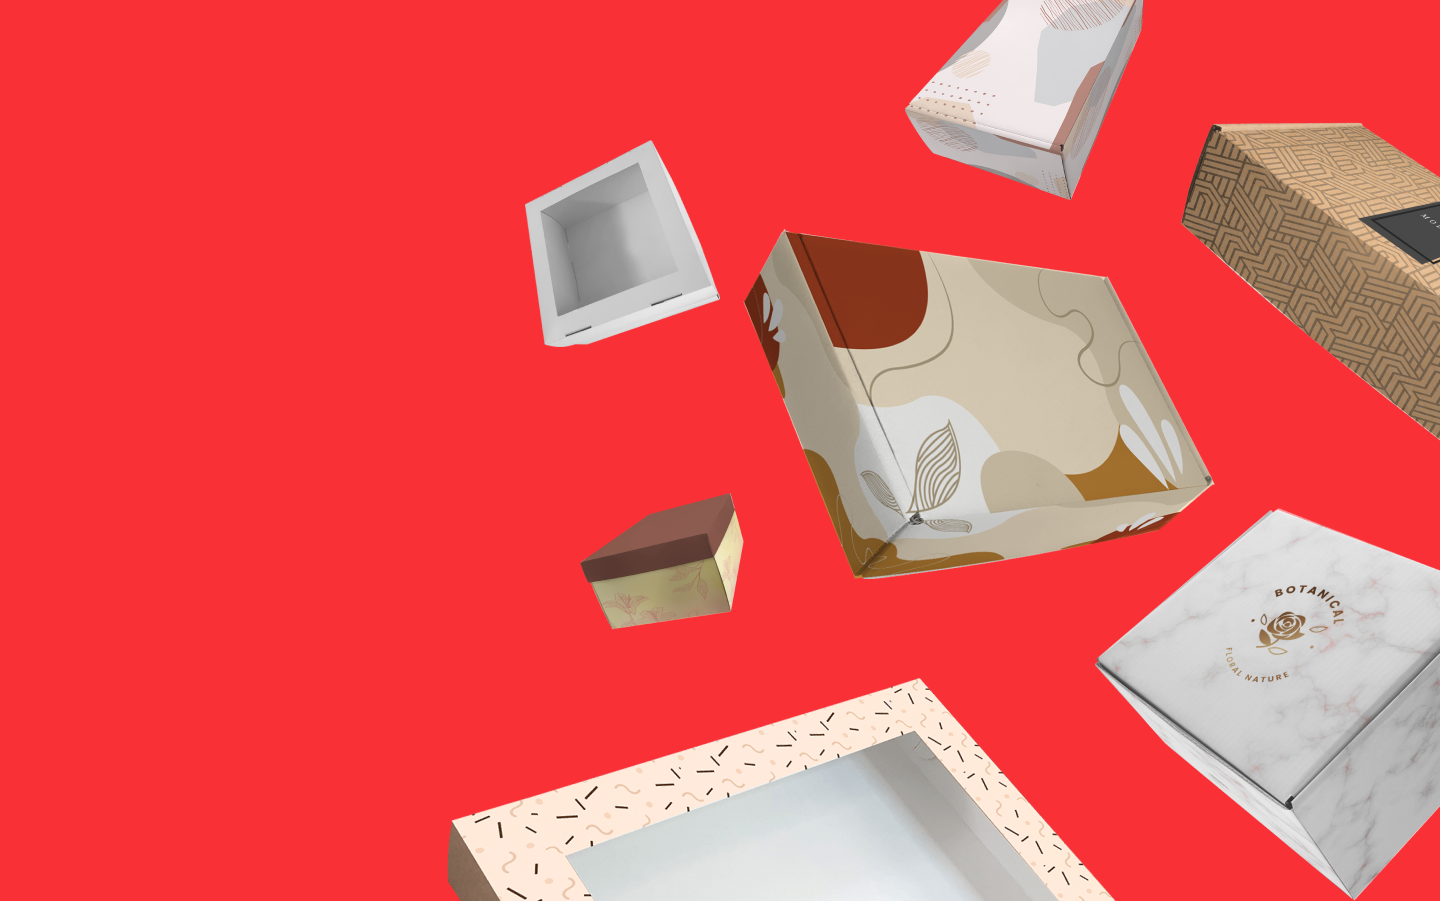
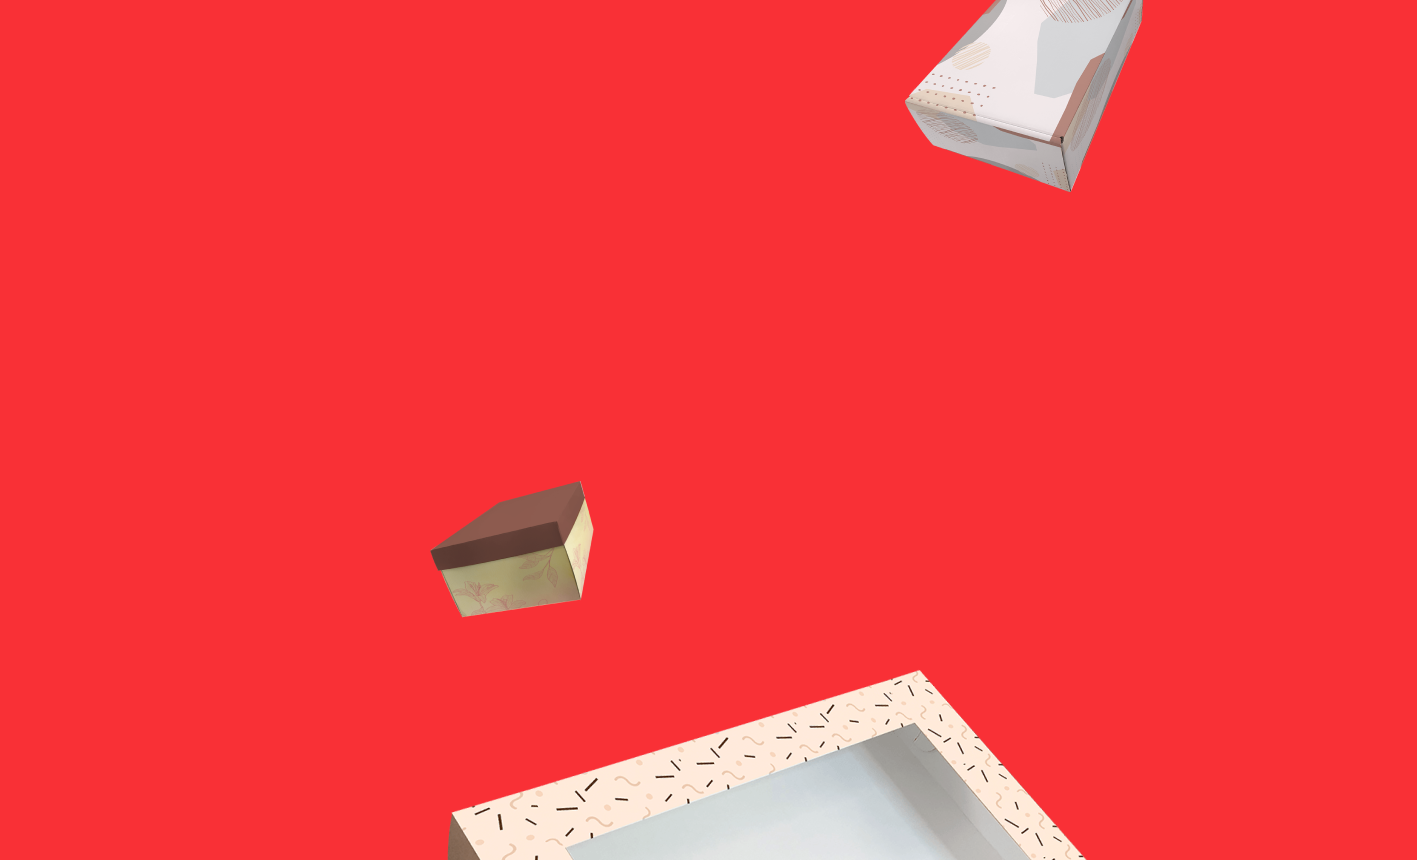
añadiendo caja animada

diff --git a/src/app/home/home.component.html b/src/app/home/home.component.html
@@ -1,4 +1,4 @@
-<div _ngcontent-aur-c41 class=" container-fluid pb-20 h-full " style="background-image: url(assets/images/home-stactic.png);"
+<div _ngcontent-aur-c41 class="container-fluid pb-20 h-screen md:px-10" style="background-image: url(assets/images/home.png);"
   [ngClass]="ocultar">
   <app-menu></app-menu>
   <section _ngcontent-gip-c31 class="mat-typography text-white py-3 px-5 mt-20 ml-12 ">
@@ -6,9 +6,10 @@
     <a [routerLink]="['/cotizar']" type="button" class="bg-yellow-400 rounded text-black px-16 py-3 mx-3">COTIZAR</a>
   </section>
   <section id="image-container">
-    <img id="box-slidein" class="hidden md:block absolute top-48 -right-32 " src="assets/images/box-slow.png" alt="box">
+    <img id="box-slidein" class="hidden md:block absolute top-52 -right-32 " src="assets/images/box-slow.png" alt="box">
   </section>
-    <img id="box-rotate" class="hidden md:block absolute top-20 left-96" src="assets/images/box-center.png" alt="box">
-    <!-- <img class="hidden md:block absolute top-60 right-96" src="assets/images/box-rotate.png" alt="box"> -->
+<img id="box-up" class="hidden md:block absolute top-5 left-1/3" src="assets/images/box-rotate.png" alt="box">
+
+    <img id="box-rotate" class="hidden md:block absolute top-80 right-1/3" src="assets/images/box-center.png" alt="box">
   
 </div>

diff --git a/src/app/home/home.component.css b/src/app/home/home.component.css
@@ -7,13 +7,13 @@
       width: 30%
     }
     to {
-      margin-right: 25%;
+      margin-right: 10%;
       width: 30%;
     }
   };
 
 #box-rotate {
-    animation: 7s rotate linear infinite;
+    animation: 10s rotate linear infinite;
     transform-origin: 50% 50%;
   }
   @keyframes rotate {
@@ -27,6 +27,20 @@
     }
 };
 
+#box-up{
+    animation: 5s up infinite alternate;
+  }
+  @keyframes up {
+    from {
+      margin-bottom: 0%;
+      width: 25%
+    }
+    to {
+      margin-top: 4%;
+      width: 25%;
+    }
+  };
+
 #image-container{
-    overflow: hidden !important;
+    overflow-x: hidden !important;
 };

diff --git a/src/app/menu/menu.component.html b/src/app/menu/menu.component.html
@@ -7,7 +7,7 @@
     <a mat-button>Contacto</a>
     <a mat-button>Ayuda</a>
   </nav>
-  <div class="example-button-container block md:hidden mx-32 text-white">
+  <div class="example-button-container block md:hidden mx-24 text-white">
     <button mat-icon-button color="warm" [matMenuTriggerFor]="menu" aria-label="Example icon button with a delete icon">
       <mat-icon>menu</mat-icon>
       <mat-menu #menu="matMenu" xPosition="before">
